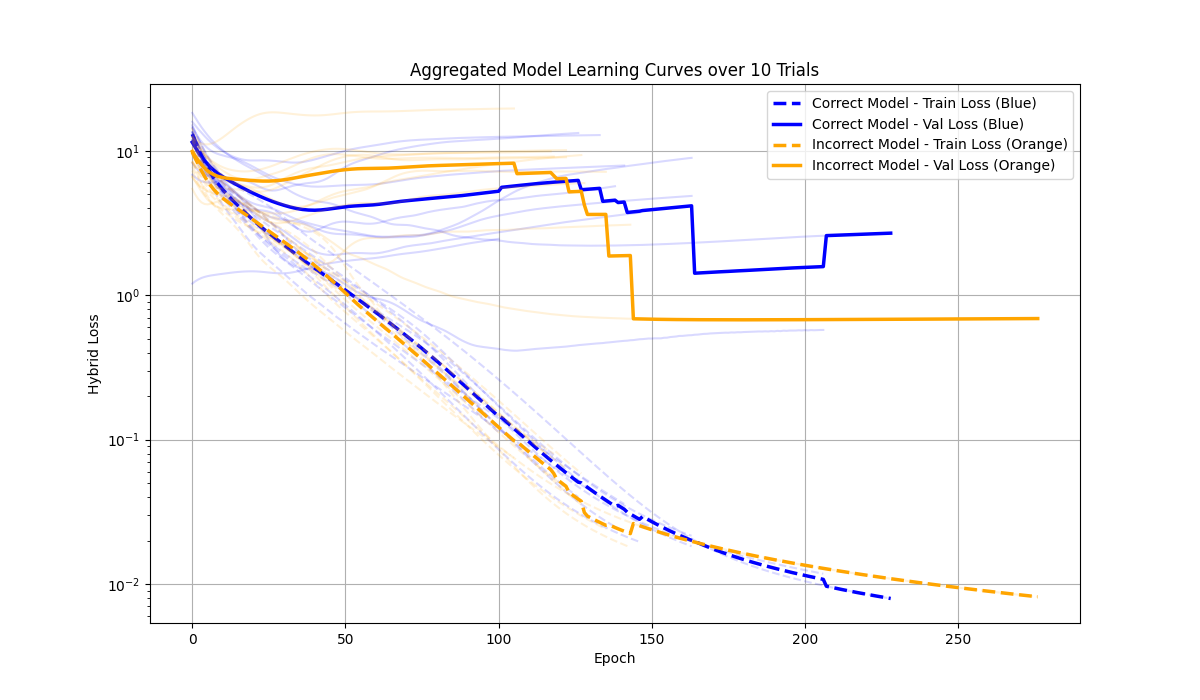
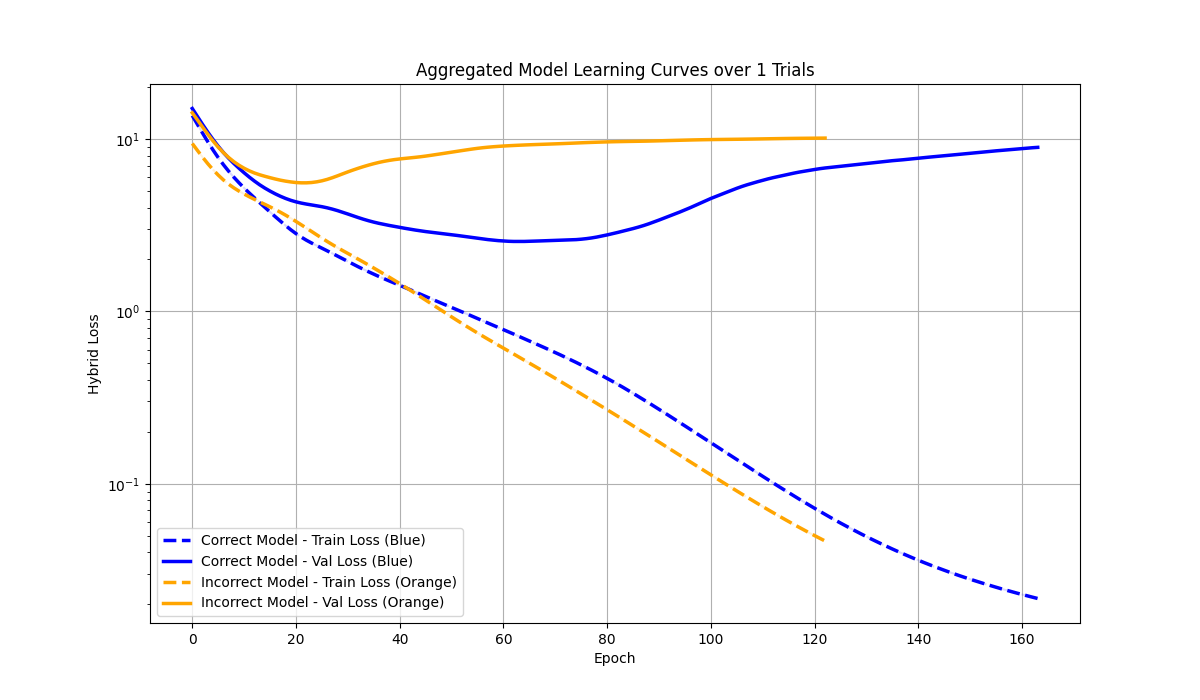
Revert "add trials"
This reverts commit 9f0741292b85995e1ae2dc1d541d0a085addfc58.

diff --git a/Demos/Demo2/models2.py b/Demos/Demo2/models2.py
@@ -58,7 +58,6 @@ NUM_LAYERS = 2 # AI: Reverted to larger model
 EPOCHS = 1000 # AI: Increased epochs for better convergence
 LEARNING_RATE = 0.001 # AI: Adjusted learning rate for more stable training
 PATIENCE = 100 # AI: Added for early stopping
-NUM_TRIALS = 10 # AI: Number of trials to run
 
 def prepare_data(vectorised_data: List[List[np.ndarray[Any, Any]]]) -> List[Tuple[torch.Tensor, torch.Tensor, torch.Tensor]]:
     """
@@ -382,99 +381,98 @@ def main():
     """
     AI: Main execution block. Trains and evaluates models for both with and without context data.
     """
-    all_results_wc = {'mse_results': [], 'epochs': [], 'all_learning_curves': [], 'all_evaluations': []}
-    all_results_wcc = {'mse_results': [], 'epochs': [], 'all_learning_curves': [], 'all_evaluations': []}
+    print("Preparing data...")
+    data_with_context = prepare_data(TRAINING_DATA_WITH_CONTEXT_VECTORISED)
+    data_without_context = prepare_data(TRAINING_DATA_WITHOUT_CONTEXT_VECTORISED)
+    data_with_context_coercion = prepare_data(TRAINING_DATA_WITH_CONTEXT_VECTORISED_COERCION)
 
-    for i in range(NUM_TRIALS):
-        print(f"\n--- Starting Trial {i+1}/{NUM_TRIALS} ---")
-        # AI: Set different random seeds for each trial for variability
-        random.seed(42 + i)
-        np.random.seed(42 + i)
-        torch.manual_seed(42 + i)
 
-        print("Preparing data...")
-        data_with_context = prepare_data(TRAINING_DATA_WITH_CONTEXT_VECTORISED)
-        data_with_context_coercion = prepare_data(TRAINING_DATA_WITH_CONTEXT_VECTORISED_COERCION)
+    # AI: Shuffle and split data for training and validation
+    random.shuffle(data_with_context)
+    split_idx_wc = int(len(data_with_context) * 0.8)
+    train_data_with_context = data_with_context[:split_idx_wc]
+    val_data_with_context = data_with_context[split_idx_wc:]
+    if not train_data_with_context or not val_data_with_context:
+        train_data_with_context = data_with_context
+        val_data_with_context = data_with_context
 
-        # AI: Shuffle and split data for training and validation
-        random.shuffle(data_with_context)
-        split_idx_wc = int(len(data_with_context) * 0.8)
-        train_data_with_context = data_with_context[:split_idx_wc]
-        val_data_with_context = data_with_context[split_idx_wc:]
-        if not train_data_with_context or not val_data_with_context:
-            train_data_with_context = val_data_with_context = data_with_context
+    random.shuffle(data_with_context_coercion)
+    split_idx_wcc = int(len(data_with_context_coercion) * 0.8)
+    train_data_with_context_coercion = data_with_context_coercion[:split_idx_wcc]
+    val_data_with_context_coercion = data_with_context_coercion[split_idx_wcc:]
+    if not train_data_with_context_coercion or not val_data_with_context_coercion:
+        train_data_with_context_coercion = data_with_context_coercion
+        val_data_with_context_coercion = data_with_context_coercion
 
-        random.shuffle(data_with_context_coercion)
-        split_idx_wcc = int(len(data_with_context_coercion) * 0.8)
-        train_data_with_context_coercion = data_with_context_coercion[:split_idx_wcc]
-        val_data_with_context_coercion = data_with_context_coercion[split_idx_wcc:]
-        if not train_data_with_context_coercion or not val_data_with_context_coercion:
-            train_data_with_context_coercion = val_data_with_context_coercion = data_with_context_coercion
+    # --- WITH CONTEXT ---
+    # performance should be perfect
+    print("\nTraining model WITH context...")
+    model_with_context = TransformerPredictor(INPUT_SIZE, D_MODEL, NHEAD, NUM_LAYERS, NUM_EVENT_TYPES, DATA_VECTOR_SIZE)
+    history_wc, best_epoch_wc = train_model(model_with_context, train_data_with_context, val_data_with_context)
+    print("Evaluating model WITH context...")
+    mse_with_context, metrics_wc, evals_wc = evaluate_model(model_with_context, data_with_context)
+    print("-" * 40)
 
-        # --- WITH CONTEXT ---
-        print("\nTraining model WITH context...")
-        model_with_context = TransformerPredictor(INPUT_SIZE, D_MODEL, NHEAD, NUM_LAYERS, NUM_EVENT_TYPES, DATA_VECTOR_SIZE)
-        history_wc, best_epoch_wc = train_model(model_with_context, train_data_with_context, val_data_with_context)
-        print("Evaluating model WITH context...")
-        mse_with_context, metrics_wc, evals_wc = evaluate_model(model_with_context, data_with_context)
-        all_results_wc['mse_results'].append(mse_with_context)
-        all_results_wc['epochs'].append(best_epoch_wc)
-        all_results_wc['all_learning_curves'].append(history_wc)
-        all_results_wc['all_evaluations'].append(evals_wc)
-        print("-" * 40)
+    # # --- WITHOUT CONTEXT ---
+    # # performance should be ok
+    # print("\nTraining model WITHOUT context...")
+    # model_without_context = TransformerPredictor(INPUT_SIZE, D_MODEL, NHEAD, NUM_LAYERS, NUM_EVENT_TYPES, DATA_VECTOR_SIZE)
+    # train_model(model_without_context, data_without_context)
+    # print("Evaluating model WITHOUT context...")
+    # evaluate_model(model_without_context, data_without_context)
+    # print("-" * 40)
 
-        # --- WITH CONTEXT BUT WITHOUT BACKPROP NONE VALUES ---
-        print("\nTraining model WITHOUT BACKPROP NONE VALUES...")
-        model_without_backprop_none_values = TransformerPredictor(INPUT_SIZE, D_MODEL, NHEAD, NUM_LAYERS, NUM_EVENT_TYPES, DATA_VECTOR_SIZE)
-        history_wcc, best_epoch_wcc = train_model(model_without_backprop_none_values, train_data_with_context_coercion, val_data_with_context_coercion)
-        print("Evaluating model WITHOUT BACKPROP NONE VALUES...")
-        mse_without_backprop, metrics_wcc, evals_wcc = evaluate_model(model_without_backprop_none_values, data_with_context_coercion)
-        all_results_wcc['mse_results'].append(mse_without_backprop)
-        all_results_wcc['epochs'].append(best_epoch_wcc)
-        all_results_wcc['all_learning_curves'].append(history_wcc)
-        all_results_wcc['all_evaluations'].append(evals_wcc)
-        print("-" * 40)
 
-    # --- Aggregate and Save Results ---
-    final_results = {
-        'num_trials': NUM_TRIALS,
+    # --- WITH CONTEXT BUT WITHOUT BACKPROP NONE VALUES ---
+    # performance should be bad
+    print("\nTraining model WITHOUT BACKPROP NONE VALUES...")
+    model_without_backprop_none_values = TransformerPredictor(INPUT_SIZE, D_MODEL, NHEAD, NUM_LAYERS, NUM_EVENT_TYPES, DATA_VECTOR_SIZE)
+    history_wcc, best_epoch_wcc = train_model(model_without_backprop_none_values, train_data_with_context_coercion, val_data_with_context_coercion)
+    print("Evaluating model WITHOUT BACKPROP NONE VALUES...")
+    mse_without_backprop, metrics_wcc, evals_wcc = evaluate_model(model_without_backprop_none_values, data_with_context_coercion)
+    print("-" * 40)
+
+    # --- Save Results ---
+    results = {
+        'num_trials': 1,
         'correct_model': {
-            'mse_results': all_results_wc['mse_results'],
-            'mean_mse': np.mean(all_results_wc['mse_results']),
-            'std_mse': np.std(all_results_wc['mse_results']),
-            'epochs': all_results_wc['epochs'],
-            'all_learning_curves': all_results_wc['all_learning_curves'],
-            'all_evaluations': all_results_wc['all_evaluations'],
+            'mse_results': [mse_with_context],
+            'mean_mse': mse_with_context,
+            'std_mse': 0,
+            'epochs': [best_epoch_wc],
+            'all_learning_curves': [history_wc],
+            'all_evaluations': [evals_wc],
+            'final_metrics': metrics_wc
         },
         'incorrect_model': {
-            'mse_results': all_results_wcc['mse_results'],
-            'mean_mse': np.mean(all_results_wcc['mse_results']),
-            'std_mse': np.std(all_results_wcc['mse_results']),
-            'epochs': all_results_wcc['epochs'],
-            'all_learning_curves': all_results_wcc['all_learning_curves'],
-            'all_evaluations': all_results_wcc['all_evaluations'],
+            'mse_results': [mse_without_backprop],
+            'mean_mse': mse_without_backprop,
+            'std_mse': 0,
+            'epochs': [best_epoch_wcc],
+            'all_learning_curves': [history_wcc],
+            'all_evaluations': [evals_wcc],
+            'final_metrics': metrics_wcc
         }
     }
 
     results_path = os.path.join(os.path.dirname(__file__), 'results.npy')
-    np.save(results_path, final_results)
-    print(f"\nAggregated results over {NUM_TRIALS} trials saved to {results_path}")
+    np.save(results_path, results)
+    print(f"\nResults saved to {results_path}")
+
 
     # --- FINAL CHECK ---
-    mean_mse_wc = final_results['correct_model']['mean_mse']
-    mean_mse_wcc = final_results['incorrect_model']['mean_mse']
-    print("\n--- Final Quantitative Check (Averaged over all trials) ---")
-    print(f"Correct Model (with masking) Mean Targeted MSE:   {mean_mse_wc:.6f}")
-    print(f"Incorrect Model (coerced to 0) Mean Targeted MSE: {mean_mse_wcc:.6f}")
+    print("\n--- Final Quantitative Check ---")
+    print(f"Correct Model (with masking) Targeted MSE:   {mse_with_context:.6f}")
+    print(f"Incorrect Model (coerced to 0) Targeted MSE: {mse_without_backprop:.6f}")
 
-    if np.isnan(mean_mse_wc) or np.isnan(mean_mse_wcc):
+    if np.isnan(mse_with_context) or np.isnan(mse_without_backprop):
         print("\nCHECK SKIPPED: Could not retrieve MSE values for comparison.")
-    elif mean_mse_wcc > mean_mse_wc:
-        print("\nSUCCESS: The model trained with incorrect zero-coercion has a higher average regression error.")
-        print("This quantitatively proves that masking is the superior method across multiple trials.")
+    elif mse_without_backprop > mse_with_context:
+        print("\nSUCCESS: The model trained with incorrect zero-coercion has a higher regression error.")
+        print("This quantitatively proves that masking is the superior method.")
     else:
-        print("\nFAILURE: The targeted MSE check did not show the expected average difference.")
-        print(f"Difference: {mean_mse_wc - mean_mse_wcc:.8f}. This may be due to model parameters, data simplicity, or random seeds.")
+        print("\nFAILURE: The targeted MSE check did not show the expected difference.")
+        print(f"Difference: {mse_with_context - mse_without_backprop:.8f}. This may be due to model parameters, data simplicity, or random seed.")
 
 
 
